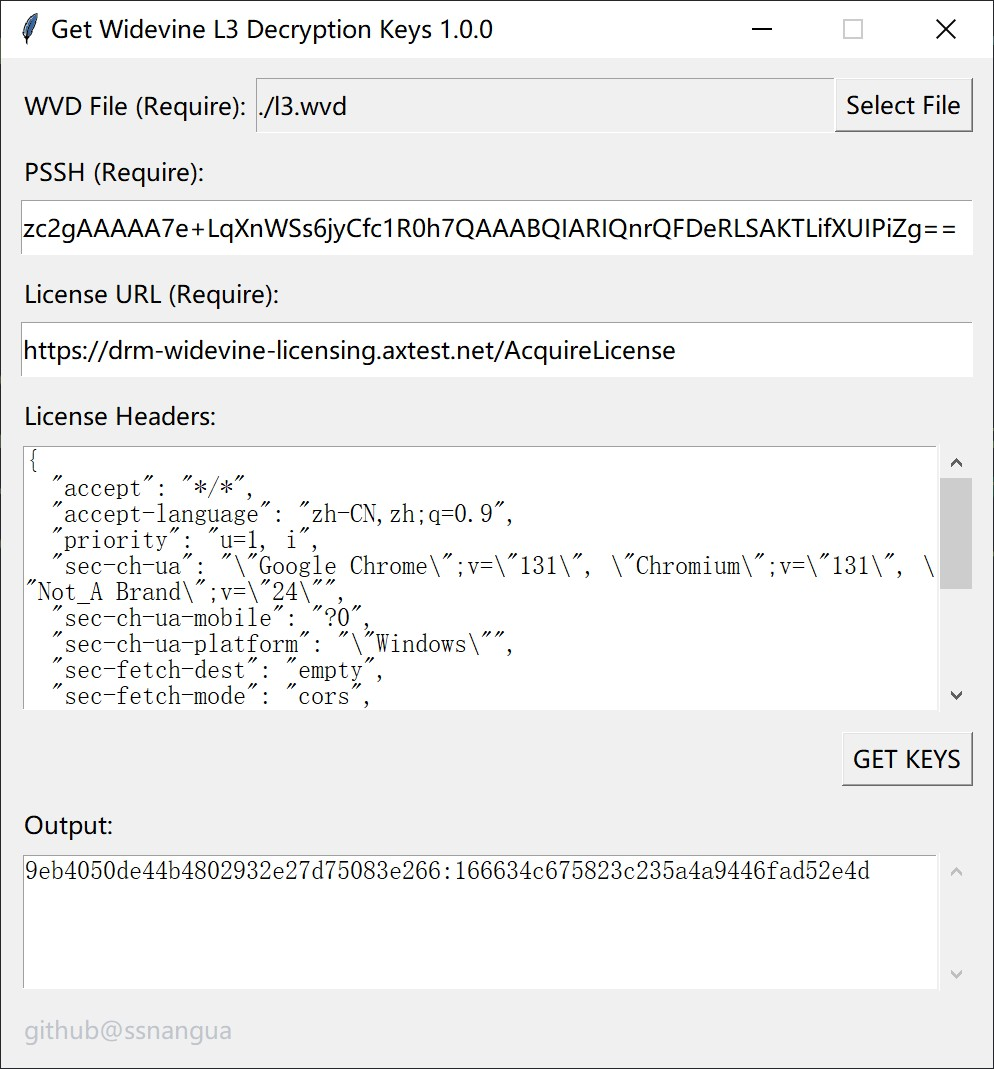
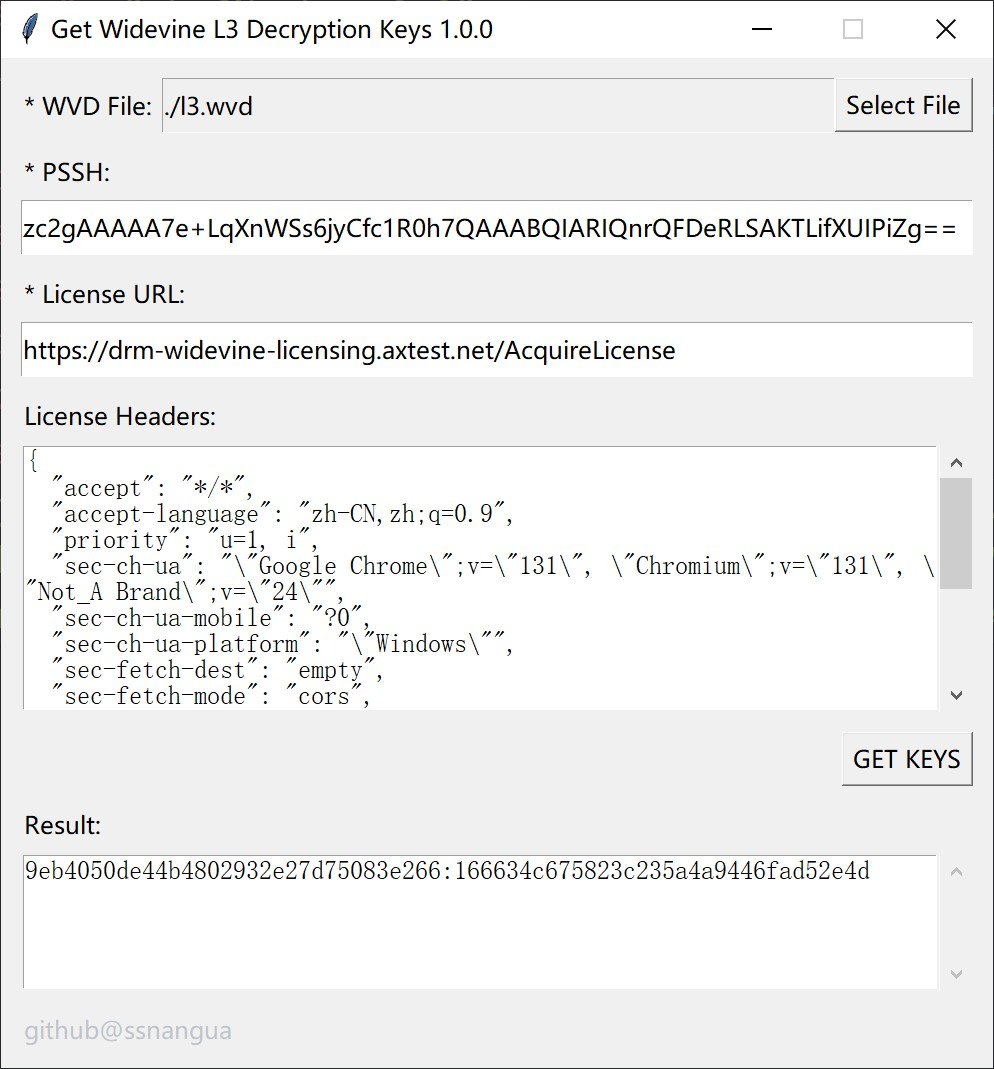
feat: gui

diff --git a/l3-gui.py b/l3-gui.py
@@ -47,18 +47,18 @@ def get_keys():
         output_error(e)
 
 def output(text):
-    output_text.config(state='normal')
-    output_text.delete('1.0', 'end')
-    output_text.insert('1.0', text)
-    output_text.see('1.0')
-    output_text.config(state='disabled')
+    result_text.config(state='normal')
+    result_text.delete('1.0', 'end')
+    result_text.insert('1.0', text)
+    result_text.see('1.0')
+    result_text.config(state='disabled')
 
 def output_keys(keys):
     text = '\n'.join(keys)
     output(text)
     # Copy to clipboard
-    output_text.clipboard_clear()
-    output_text.clipboard_append(text)
+    result_text.clipboard_clear()
+    result_text.clipboard_append(text)
 
 def output_error(msg):
     output(f'Error: {msg}')
@@ -99,13 +99,13 @@ def add_text(height=5, pady=(0, 0), state='normal'):
     text.grid(row=0, column=0, sticky="nsew", padx=2, pady=2)
     # Associate the scrollbar and text widget
     text.config(yscrollcommand=scrollbar.set)
-    scrollbar.config(command = text.yview)
+    scrollbar.config(command=text.yview)
     return text
 
 # WVD
 wvd_box = Frame(frame)
 wvd_box.pack(fill='both')
-wvd_label = Label(wvd_box, text='WVD File (Require): ')
+wvd_label = Label(wvd_box, text='* WVD File: ')
 wvd_label.grid(row=0, column=0)
 wvd_entry = Entry(wvd_box, state='readonly')
 wvd_entry.grid(row=0, column=1, sticky='ew', ipady=10)
@@ -114,11 +114,11 @@ wvd_button.grid(row=0, column=2)
 wvd_box.columnconfigure(1, weight=1)
 
 # PSSH
-pssh_label = add_label(text='PSSH (Require):', pady=(20, 0))
+pssh_label = add_label(text='* PSSH:', pady=(20, 0))
 pssh_entry = add_entry(pady=(10, 0))
 
 # License URL
-lic_url_label = add_label(text='License URL (Require):', pady=(20, 0))
+lic_url_label = add_label(text='* License URL:', pady=(20, 0))
 lic_url_entry = add_entry(pady=(10, 0))
 
 # License Headers
@@ -129,9 +129,9 @@ lic_headers_text = add_text(height=10, pady=(10, 0))
 get_keys_button = Button(frame, text='GET KEYS', command=get_keys)
 get_keys_button.pack(anchor='e', pady=20)
 
-# Output
-keys_label = add_label(text='Output:')
-output_text = add_text(height=5, pady=(10, 0), state='disable')
+# Result
+result_label = add_label(text='Result:')
+result_text = add_text(height=5, pady=(10, 0), state='disable')
 
 # About
 about_label = Label(frame, text='github@ssnangua', fg='#c0c4cc', cursor="hand2")
